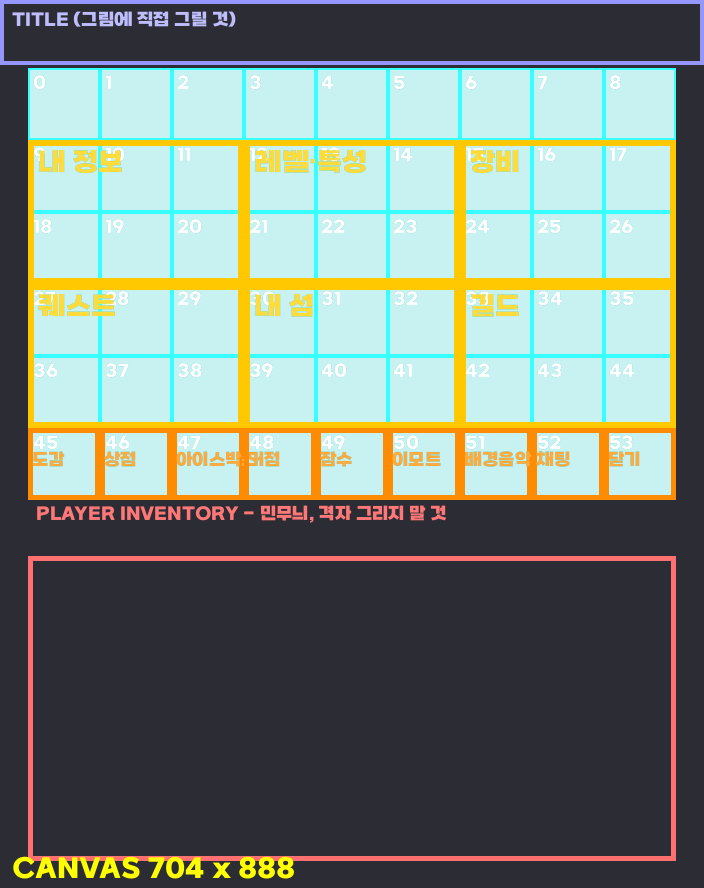
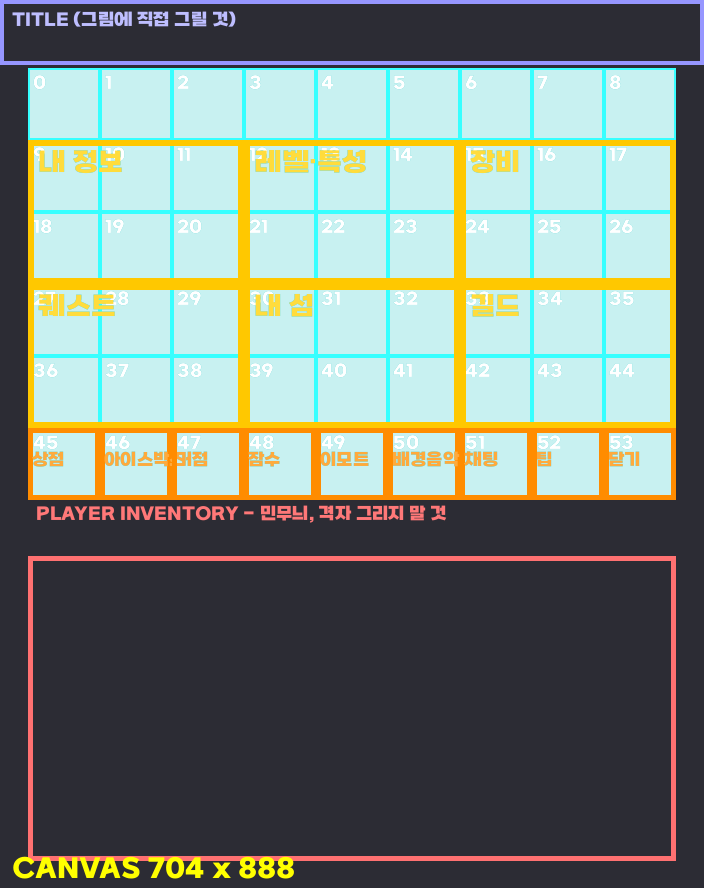
상세 화면(내 정보·상점)도 타일형으로 — 전용 그림 총 3장
버튼을 한 칸씩 두지 않고 메뉴처럼 큰 타일로. 전용 그림을 굽는 화면은
메뉴·내 정보·상점 셋뿐이고 나머지 목록형은 공용판 + 아이템 아이콘 그대로다.

★타일 폭은 9열을 정확히 나눠야 한다 — 안 그러면 가운데에 골이 보인다.
  내 정보: 3열x2행 6개  ·  상점: 항목이 3개뿐이라 3열x4행으로 세로 꽉 채움

도감을 메뉴 아이콘 → 내 정보 타일로 이동. '내가 발견한 기록'이라 어울리고,
내 정보가 5개면 3열 배치에서 한 칸이 비어 골이 생긴다. 빈 아이콘 자리는 팁으로 메움.

diff --git a/gui-forge/make_hub_mockups.py b/gui-forge/make_hub_mockups.py
@@ -1,23 +1,24 @@
 #!/usr/bin/env python3
-"""메뉴 타일을 눌렀을 때 열리는 **상세 화면 목업** — 발주/합의용.
+"""상세 화면(내 정보 / 상점) — 타일형 가이드 + 목업.
 
-상세 화면은 메뉴와 달리 **전용 그림을 굽지 않는다.** 공용 6행 판(common6) 위에
-아이템 버튼만 올린다 — 44개 화면이 같은 판을 쓰는 구조를 깨지 않기 위해서다.
-그래서 여기 목업은 "이 판 위에 이런 버튼이 이 자리에 놓인다"를 보여주는 용도다.
+메뉴와 마찬가지로 **버튼 그림과 글자를 배경에 굽는다.** 전용 그림을 굽는 화면은
+메뉴 · 내 정보 · 상점 **딱 셋뿐**이고, 나머지 목록형 화면은 공용 6행 판 + 아이템 아이콘이다.
 
-새로 만들어야 하는 건 두 개:
-  · 내 정보 허브 — 프로필 · 스탯 · 칭호 · 도전과제 · 랭킹
-  · 상점 허브   — 캐시(+추천 코인탭) · 잠수 · 스크롤
-나머지 타일(레벨·특성/장비/퀘스트/내 섬/길드)은 이미 있는 화면으로 바로 간다.
+## 타일 폭은 9열을 정확히 나눠야 한다
+빈칸이 생기면 가운데에 골이 보인다(2026-08-07 확인). 9열을 나누는 조합만 쓴다:
+  3+3+3 (3개)  ·  9 (1개)  ·  4+5 같은 비대칭은 쓰지 않는다.
 
-산출: src/menu/_hub_<이름>.png
+  내 정보 : 3열x2행 타일 6개 (1~4행)  — 프로필·스탯·칭호·도전과제·랭킹·도감
+  상점    : 3열x4행 타일 3개 (1~4행)  — 캐시(+추천 코인탭)·잠수·스크롤
+           항목이 3개뿐이라 세로로 꽉 채워 큰 판 3장으로 만든다.
+
+산출: src/<이름>/_guide.png · src/<이름>/_mockup.png
 """
 import os
 
 from PIL import Image, ImageDraw, ImageFont
 
 HERE = os.path.dirname(os.path.abspath(__file__))
-OUT = os.path.join(HERE, "src", "menu")
 COMMON = os.path.join(HERE, "src", "common6", "bg_source.png")
 RP = os.path.expanduser("~/development/barkan-resourcepack")
 FONT_TTF = os.path.join(RP, "assets/barkan/font/aggro_bold.ttf")
@@ -26,11 +27,15 @@ SCALE = 4
 W, H = 704, 888
 GRID_X, GRID_Y, CELL, COLS = 7, 17, 18, 9
 
+# 이름: (제목, [ (라벨, 시작열, 시작행, 열수, 행수) ], [하단 아이콘 슬롯])
 HUBS = {
-    "myinfo": ("내 정보",
-               [("프로필", 11), ("스탯", 12), ("칭호", 13), ("도전과제", 14), ("랭킹", 15)]),
-    "shop":   ("상점",
-               [("캐시 상점", 12), ("잠수 상점", 13), ("스크롤 상점", 14)]),
+    "myinfo": ("내 정보", [
+        ("프로필", 0, 1, 3, 2), ("스탯", 3, 1, 3, 2), ("칭호", 6, 1, 3, 2),
+        ("도전과제", 0, 3, 3, 2), ("랭킹", 3, 3, 3, 2), ("도감", 6, 3, 3, 2),
+    ]),
+    "shop": ("상점", [
+        ("캐시 상점", 0, 1, 3, 4), ("잠수 상점", 3, 1, 3, 4), ("스크롤 상점", 6, 1, 3, 4),
+    ]),
 }
 SLOT_BACK, SLOT_CLOSE = 45, 53
 
@@ -42,42 +47,79 @@ def font(px):
         return ImageFont.load_default()
 
 
-def slot_box(s):
-    c, r = s % COLS, s // COLS
-    x0 = (GRID_X + CELL * c) * SCALE
-    y0 = (GRID_Y + CELL * r) * SCALE
-    return x0, y0, x0 + CELL * SCALE - 1, y0 + CELL * SCALE - 1
+def rect(col, row, wcol, hrow):
+    x0 = (GRID_X + CELL * col) * SCALE
+    y0 = (GRID_Y + CELL * row) * SCALE
+    return [x0, y0, x0 + CELL * wcol * SCALE - 1, y0 + CELL * hrow * SCALE - 1]
 
 
-def build(title, buttons):
+def guide(title, tiles):
+    im = Image.new("RGBA", (W, H), (44, 44, 52, 255))
+    d = ImageDraw.Draw(im, "RGBA")
+    f, fs = font(26), font(17)
+    for r in range(6):
+        for c in range(COLS):
+            x0 = (GRID_X + CELL * c) * SCALE
+            y0 = (GRID_Y + CELL * r) * SCALE
+            d.rectangle([x0, y0, x0 + CELL * SCALE - 1, y0 + CELL * SCALE - 1],
+                        fill=(0, 190, 190, 55), outline=(0, 255, 255, 200), width=2)
+            d.text((x0 + 5, y0 + 5), str(r * COLS + c), font=fs, fill=(255, 255, 255, 210))
+    for label, col, row, wc, hr in tiles:
+        box = rect(col, row, wc, hr)
+        d.rectangle(box, outline=(255, 200, 0, 255), width=6)
+        d.text((box[0] + 10, box[1] + 8), label, font=f, fill=(255, 220, 60, 255))
+    for lbl, s in (("뒤로", SLOT_BACK), ("닫기", SLOT_CLOSE)):
+        c, r = s % COLS, s // COLS
+        box = rect(c, r, 1, 1)
+        d.rectangle(box, outline=(255, 140, 0, 255), width=5)
+        d.text((box[0] + 4, box[1] + 22), lbl, font=fs, fill=(255, 170, 60, 255))
+    d.rectangle(rect(0, 0, 9, 1), outline=(150, 150, 255, 255), width=5)
+    d.text((rect(0, 0, 9, 1)[0] + 10, rect(0, 0, 9, 1)[1] + 20),
+           f'TITLE "{title}" — 그림에 직접', font=fs, fill=(190, 190, 255, 255))
+    iy = 31 + 6 * CELL
+    d.rectangle([GRID_X * SCALE, iy * SCALE, (GRID_X + CELL * COLS) * SCALE - 1, (iy + 76) * SCALE],
+                outline=(255, 90, 90, 220), width=5)
+    d.text((GRID_X * SCALE + 8, (iy - 13) * SCALE), "PLAYER INVENTORY - 격자 그리지 말 것",
+           font=fs, fill=(255, 120, 120, 255))
+    d.text((12, H - 34), f"CANVAS {W} x {H}", font=f, fill=(255, 255, 0, 255))
+    return im
+
+
+def mockup(title, tiles):
     im = Image.open(COMMON).convert("RGBA").resize((W, H), Image.LANCZOS)
     ov = Image.new("RGBA", (W, H), (0, 0, 0, 0))
     d = ImageDraw.Draw(ov, "RGBA")
-    ft, fb = font(30), font(17)
-
-    # 제목(실제로는 금박 아트 글리프로 얹는다)
+    ft, f = font(30), font(24)
     bb = d.textbbox((0, 0), title, font=ft)
-    d.text((W / 2 - (bb[2] - bb[0]) / 2, 34), title, font=ft,
+    d.text((W / 2 - (bb[2] - bb[0]) / 2, 88), title, font=ft,
            fill=(255, 226, 150, 255), stroke_width=3, stroke_fill=(18, 12, 8, 255))
-
-    for label, s in buttons + [("← 뒤로", SLOT_BACK), ("닫기", SLOT_CLOSE)]:
-        x0, y0, x1, y1 = slot_box(s)
+    for label, col, row, wc, hr in tiles:
+        x0, y0, x1, y1 = rect(col, row, wc, hr)
+        d.rounded_rectangle([x0 + 4, y0 + 4, x1 - 4, y1 - 4], radius=10,
+                            fill=(14, 20, 26, 150), outline=(198, 150, 78, 235), width=4)
+        lb = d.textbbox((0, 0), label, font=f)
+        d.text(((x0 + x1) / 2 - (lb[2] - lb[0]) / 2, y1 - 48), label, font=f,
+               fill=(255, 226, 150, 255), stroke_width=3, stroke_fill=(18, 12, 8, 255))
+    for s in (SLOT_BACK, SLOT_CLOSE):
+        c, r = s % COLS, s // COLS
+        x0, y0, x1, y1 = rect(c, r, 1, 1)
         d.rounded_rectangle([x0 + 3, y0 + 3, x1 - 3, y1 - 3], radius=8,
-                            fill=(14, 20, 26, 160), outline=(198, 150, 78, 235), width=3)
-        lb = d.textbbox((0, 0), label, font=fb)
-        d.text(((x0 + x1) / 2 - (lb[2] - lb[0]) / 2, y1 + 4), label, font=fb,
-               fill=(235, 220, 190, 255), stroke_width=2, stroke_fill=(12, 10, 8, 255))
+                            fill=(14, 20, 26, 150), outline=(198, 150, 78, 220), width=3)
     im.alpha_composite(ov)
     return im
 
 
 def main():
-    os.makedirs(OUT, exist_ok=True)
-    for key, (title, buttons) in HUBS.items():
-        p = os.path.join(OUT, f"_hub_{key}.png")
-        build(title, buttons).save(p)
-        print(f"  {title:8} 버튼 {[s for _, s in buttons]}  → {os.path.basename(p)}")
-    print("  (뒤로 45 · 닫기 53 — 상세 화면 공통)")
+    for key, (title, tiles) in HUBS.items():
+        out = os.path.join(HERE, "src", key)
+        os.makedirs(out, exist_ok=True)
+        guide(title, tiles).save(os.path.join(out, "_guide.png"))
+        mockup(title, tiles).save(os.path.join(out, "_mockup.png"))
+        print(f"  {title:8} 타일 {len(tiles)}개 → src/{key}/")
+        for label, col, row, wc, hr in tiles:
+            slots = sorted((row + dr) * COLS + (col + dc) for dr in range(hr) for dc in range(wc))
+            print(f"     {label:10} {wc}열x{hr}행  슬롯 {slots}")
+    print(f"  (뒤로 {SLOT_BACK} · 닫기 {SLOT_CLOSE} — 상세 화면 공통)")
 
 
 if __name__ == "__main__":

diff --git a/gui-forge/make_menu_layout.py b/gui-forge/make_menu_layout.py
@@ -45,8 +45,10 @@ TILES = [
     ("퀘스트", 0, 3), ("내 섬", 3, 3), ("길드", 6, 3),
 ]
 # 4행을 9칸 꽉 채운다 — 한 칸이라도 비면 다시 골이 생긴다.
-ICONS = [("도감", 45), ("상점", 46), ("아이스박스", 47), ("거점", 48), ("잠수", 49),
-         ("이모트", 50), ("배경음악", 51), ("채팅", 52)]
+# 도감은 '내 정보' 허브로 옮겼다(내가 발견한 기록이라 거기 어울리고, 내 정보 타일이
+# 5개면 3열 배치에서 한 칸이 비어 골이 생긴다). 빈 자리는 팁으로 메워 9칸을 유지.
+ICONS = [("상점", 45), ("아이스박스", 46), ("거점", 47), ("잠수", 48), ("이모트", 49),
+         ("배경음악", 50), ("채팅", 51), ("팁", 52)]
 SLOT_CLOSE = 53
 
 
